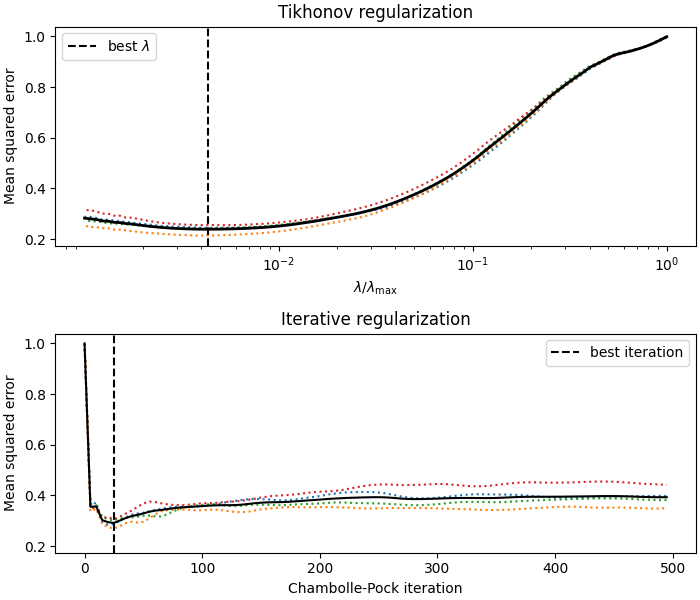
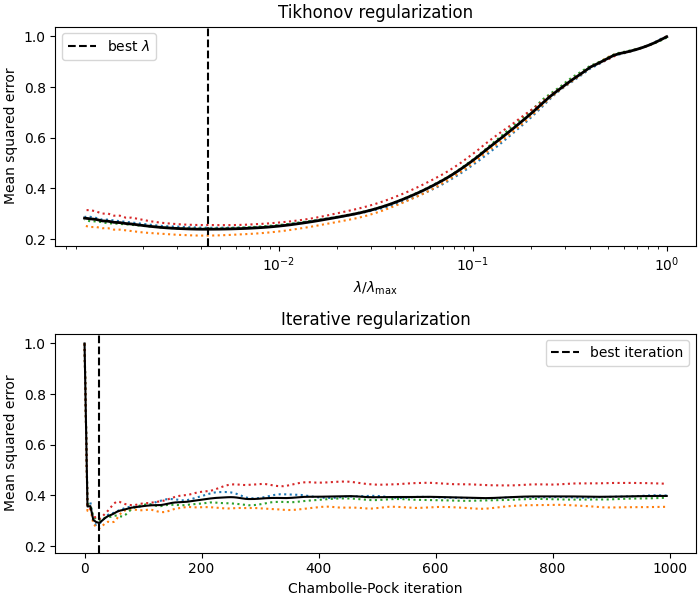
Generate Pelican site [ci skip]

diff --git a/auto_examples/plot_cv_vs_cp_path.html b/auto_examples/plot_cv_vs_cp_path.html
@@ -144,13 +144,15 @@ package) and iterative regularization (ours).</p>
 
 <span class="n">clf</span><span class="o">.</span><span class="n">fit</span><span class="p">(</span><a href="https://docs.scipy.org/doc/scipy/reference/generated/scipy.sparse.csc_matrix.html#scipy.sparse.csc_matrix" title="scipy.sparse.csc_matrix" class="sphx-glr-backref-module-scipy-sparse sphx-glr-backref-type-py-class sphx-glr-backref-instance"><span class="n">X</span></a><span class="p">,</span> <a href="https://numpy.org/doc/stable/reference/generated/numpy.ndarray.html#numpy.ndarray" title="numpy.ndarray" class="sphx-glr-backref-module-numpy sphx-glr-backref-type-py-class sphx-glr-backref-instance"><span class="n">y</span></a><span class="p">)</span>
 
-<a href="https://docs.python.org/3/library/functions.html#int" title="builtins.int" class="sphx-glr-backref-module-builtins sphx-glr-backref-type-py-class sphx-glr-backref-instance"><span class="n">max_iter</span></a> <span class="o">=</span> <span class="mi">500</span>
+<a href="https://docs.python.org/3/library/functions.html#int" title="builtins.int" class="sphx-glr-backref-module-builtins sphx-glr-backref-type-py-class sphx-glr-backref-instance"><span class="n">max_iter</span></a> <span class="o">=</span> <span class="mi">1_000</span>
 <a href="https://docs.python.org/3/library/functions.html#int" title="builtins.int" class="sphx-glr-backref-module-builtins sphx-glr-backref-type-py-class sphx-glr-backref-instance"><span class="n">f_store</span></a> <span class="o">=</span> <span class="mi">5</span>
+<a href="https://docs.python.org/3/library/functions.html#int" title="builtins.int" class="sphx-glr-backref-module-builtins sphx-glr-backref-type-py-class sphx-glr-backref-instance"><span class="n">step</span></a> <span class="o">=</span> <span class="mi">1</span>
 <a href="https://docs.python.org/3/library/functions.html#int" title="builtins.int" class="sphx-glr-backref-module-builtins sphx-glr-backref-type-py-class sphx-glr-backref-instance"><span class="n">n_points</span></a> <span class="o">=</span> <a href="https://docs.python.org/3/library/functions.html#int" title="builtins.int" class="sphx-glr-backref-module-builtins sphx-glr-backref-type-py-class sphx-glr-backref-instance"><span class="n">max_iter</span></a> <span class="o">//</span> <a href="https://docs.python.org/3/library/functions.html#int" title="builtins.int" class="sphx-glr-backref-module-builtins sphx-glr-backref-type-py-class sphx-glr-backref-instance"><span class="n">f_store</span></a>
 <a href="https://numpy.org/doc/stable/reference/generated/numpy.ndarray.html#numpy.ndarray" title="numpy.ndarray" class="sphx-glr-backref-module-numpy sphx-glr-backref-type-py-class sphx-glr-backref-instance"><span class="n">mse_dp</span></a> <span class="o">=</span> <a href="https://numpy.org/doc/stable/reference/generated/numpy.zeros.html#numpy.zeros" title="numpy.zeros" class="sphx-glr-backref-module-numpy sphx-glr-backref-type-py-function"><span class="n">np</span><span class="o">.</span><span class="n">zeros</span></a><span class="p">((</span><a href="https://docs.python.org/3/library/functions.html#int" title="builtins.int" class="sphx-glr-backref-module-builtins sphx-glr-backref-type-py-class sphx-glr-backref-instance"><span class="n">n_points</span></a><span class="p">,</span> <a href="https://docs.python.org/3/library/functions.html#int" title="builtins.int" class="sphx-glr-backref-module-builtins sphx-glr-backref-type-py-class sphx-glr-backref-instance"><span class="n">n_splits</span></a><span class="p">))</span>
 
 <a href="https://docs.python.org/3/library/stdtypes.html#list" title="builtins.list" class="sphx-glr-backref-module-builtins sphx-glr-backref-type-py-class sphx-glr-backref-instance"><span class="n">res</span></a> <span class="o">=</span> <span class="n">Parallel</span><span class="p">(</span><span class="n">n_jobs</span><span class="o">=-</span><span class="mi">1</span><span class="p">)(</span><span class="n">delayed</span><span class="p">(</span><span class="n">dual_primal</span><span class="p">)(</span>
-    <a href="https://docs.scipy.org/doc/scipy/reference/generated/scipy.sparse.csc_matrix.html#scipy.sparse.csc_matrix" title="scipy.sparse.csc_matrix" class="sphx-glr-backref-module-scipy-sparse sphx-glr-backref-type-py-class sphx-glr-backref-instance"><span class="n">X</span></a><span class="p">[</span><a href="https://numpy.org/doc/stable/reference/generated/numpy.ndarray.html#numpy.ndarray" title="numpy.ndarray" class="sphx-glr-backref-module-numpy sphx-glr-backref-type-py-class sphx-glr-backref-instance"><span class="n">train_idx</span></a><span class="p">],</span> <a href="https://numpy.org/doc/stable/reference/generated/numpy.ndarray.html#numpy.ndarray" title="numpy.ndarray" class="sphx-glr-backref-module-numpy sphx-glr-backref-type-py-class sphx-glr-backref-instance"><span class="n">y</span></a><span class="p">[</span><a href="https://numpy.org/doc/stable/reference/generated/numpy.ndarray.html#numpy.ndarray" title="numpy.ndarray" class="sphx-glr-backref-module-numpy sphx-glr-backref-type-py-class sphx-glr-backref-instance"><span class="n">train_idx</span></a><span class="p">],</span> <a href="https://docs.python.org/3/library/functions.html#int" title="builtins.int" class="sphx-glr-backref-module-builtins sphx-glr-backref-type-py-class sphx-glr-backref-instance"><span class="n">max_iter</span></a><span class="p">,</span> <a href="https://docs.python.org/3/library/functions.html#int" title="builtins.int" class="sphx-glr-backref-module-builtins sphx-glr-backref-type-py-class sphx-glr-backref-instance"><span class="n">f_store</span></a><span class="p">,</span> <span class="n">verbose</span><span class="o">=</span><span class="kc">False</span><span class="p">)</span>
+    <a href="https://docs.scipy.org/doc/scipy/reference/generated/scipy.sparse.csc_matrix.html#scipy.sparse.csc_matrix" title="scipy.sparse.csc_matrix" class="sphx-glr-backref-module-scipy-sparse sphx-glr-backref-type-py-class sphx-glr-backref-instance"><span class="n">X</span></a><span class="p">[</span><a href="https://numpy.org/doc/stable/reference/generated/numpy.ndarray.html#numpy.ndarray" title="numpy.ndarray" class="sphx-glr-backref-module-numpy sphx-glr-backref-type-py-class sphx-glr-backref-instance"><span class="n">train_idx</span></a><span class="p">],</span> <a href="https://numpy.org/doc/stable/reference/generated/numpy.ndarray.html#numpy.ndarray" title="numpy.ndarray" class="sphx-glr-backref-module-numpy sphx-glr-backref-type-py-class sphx-glr-backref-instance"><span class="n">y</span></a><span class="p">[</span><a href="https://numpy.org/doc/stable/reference/generated/numpy.ndarray.html#numpy.ndarray" title="numpy.ndarray" class="sphx-glr-backref-module-numpy sphx-glr-backref-type-py-class sphx-glr-backref-instance"><span class="n">train_idx</span></a><span class="p">],</span> <a href="https://docs.python.org/3/library/functions.html#int" title="builtins.int" class="sphx-glr-backref-module-builtins sphx-glr-backref-type-py-class sphx-glr-backref-instance"><span class="n">step</span></a><span class="o">=</span><a href="https://docs.python.org/3/library/functions.html#int" title="builtins.int" class="sphx-glr-backref-module-builtins sphx-glr-backref-type-py-class sphx-glr-backref-instance"><span class="n">step</span></a><span class="p">,</span> <a href="https://docs.python.org/3/library/functions.html#int" title="builtins.int" class="sphx-glr-backref-module-builtins sphx-glr-backref-type-py-class sphx-glr-backref-instance"><span class="n">max_iter</span></a><span class="o">=</span><a href="https://docs.python.org/3/library/functions.html#int" title="builtins.int" class="sphx-glr-backref-module-builtins sphx-glr-backref-type-py-class sphx-glr-backref-instance"><span class="n">max_iter</span></a><span class="p">,</span> <a href="https://docs.python.org/3/library/functions.html#int" title="builtins.int" class="sphx-glr-backref-module-builtins sphx-glr-backref-type-py-class sphx-glr-backref-instance"><span class="n">f_store</span></a><span class="o">=</span><a href="https://docs.python.org/3/library/functions.html#int" title="builtins.int" class="sphx-glr-backref-module-builtins sphx-glr-backref-type-py-class sphx-glr-backref-instance"><span class="n">f_store</span></a><span class="p">,</span>
+    <span class="n">verbose</span><span class="o">=</span><span class="kc">False</span><span class="p">)</span>
     <span class="k">for</span> <a href="https://numpy.org/doc/stable/reference/generated/numpy.ndarray.html#numpy.ndarray" title="numpy.ndarray" class="sphx-glr-backref-module-numpy sphx-glr-backref-type-py-class sphx-glr-backref-instance"><span class="n">train_idx</span></a><span class="p">,</span> <span class="n">_</span> <span class="ow">in</span> <a href="https://scikit-learn.org/stable/modules/generated/sklearn.model_selection.KFold.html#sklearn.model_selection.KFold.split" title="sklearn.model_selection.KFold.split" class="sphx-glr-backref-module-sklearn-model_selection sphx-glr-backref-type-py-method"><span class="n">kf</span><span class="o">.</span><span class="n">split</span></a><span class="p">(</span><a href="https://docs.scipy.org/doc/scipy/reference/generated/scipy.sparse.csc_matrix.html#scipy.sparse.csc_matrix" title="scipy.sparse.csc_matrix" class="sphx-glr-backref-module-scipy-sparse sphx-glr-backref-type-py-class sphx-glr-backref-instance"><span class="n">X</span></a><span class="p">))</span>
 <a href="https://numpy.org/doc/stable/reference/generated/numpy.ndarray.html#numpy.ndarray" title="numpy.ndarray" class="sphx-glr-backref-module-numpy sphx-glr-backref-type-py-class sphx-glr-backref-instance"><span class="n">all_w</span></a> <span class="o">=</span> <a href="https://numpy.org/doc/stable/reference/generated/numpy.array.html#numpy.array" title="numpy.array" class="sphx-glr-backref-module-numpy sphx-glr-backref-type-py-function"><span class="n">np</span><span class="o">.</span><span class="n">array</span></a><span class="p">([</span><span class="n">result</span><span class="p">[</span><span class="o">-</span><span class="mi">1</span><span class="p">]</span> <span class="k">for</span> <span class="n">result</span> <span class="ow">in</span> <a href="https://docs.python.org/3/library/stdtypes.html#list" title="builtins.list" class="sphx-glr-backref-module-builtins sphx-glr-backref-type-py-class sphx-glr-backref-instance"><span class="n">res</span></a><span class="p">])</span>
 
@@ -197,21 +199,21 @@ Downloading data from https://www.csie.ntu.edu.tw/~cjlin/libsvmtools/datasets/bi
 
 
 file_sizes:   0%|                                   | 0.00/13.7M [00:00&lt;?, ?B/s]
-file_sizes:   0%|                           | 24.6k/13.7M [00:00&lt;02:09, 106kB/s]
+file_sizes:   0%|                           | 24.6k/13.7M [00:00&lt;02:08, 107kB/s]
 file_sizes:   0%|                           | 49.2k/13.7M [00:00&lt;02:08, 106kB/s]
-file_sizes:   1%|2                           | 106k/13.7M [00:00&lt;01:20, 170kB/s]
-file_sizes:   2%|4                           | 221k/13.7M [00:00&lt;00:45, 298kB/s]
-file_sizes:   3%|9                           | 451k/13.7M [00:01&lt;00:24, 547kB/s]
-file_sizes:   7%|#7                         | 909k/13.7M [00:01&lt;00:12, 1.03MB/s]
-file_sizes:  13%|###4                      | 1.83M/13.7M [00:01&lt;00:06, 1.98MB/s]
-file_sizes:  27%|######9                   | 3.66M/13.7M [00:01&lt;00:02, 3.82MB/s]
-file_sizes:  38%|#########9                | 5.23M/13.7M [00:02&lt;00:01, 4.73MB/s]
-file_sizes:  50%|############8             | 6.81M/13.7M [00:02&lt;00:01, 5.36MB/s]
-file_sizes:  61%|###############8          | 8.38M/13.7M [00:02&lt;00:00, 5.79MB/s]
-file_sizes:  72%|##################8       | 9.95M/13.7M [00:02&lt;00:00, 6.09MB/s]
-file_sizes:  84%|#####################8    | 11.5M/13.7M [00:03&lt;00:00, 6.30MB/s]
-file_sizes:  95%|########################8 | 13.1M/13.7M [00:03&lt;00:00, 6.44MB/s]
-file_sizes: 100%|##########################| 13.7M/13.7M [00:03&lt;00:00, 4.20MB/s]
+file_sizes:   1%|2                           | 106k/13.7M [00:00&lt;01:19, 171kB/s]
+file_sizes:   2%|4                           | 221k/13.7M [00:00&lt;00:45, 299kB/s]
+file_sizes:   3%|9                           | 451k/13.7M [00:01&lt;00:24, 549kB/s]
+file_sizes:   7%|#7                         | 909k/13.7M [00:01&lt;00:12, 1.04MB/s]
+file_sizes:  13%|###4                      | 1.83M/13.7M [00:01&lt;00:05, 1.99MB/s]
+file_sizes:  27%|######9                   | 3.66M/13.7M [00:01&lt;00:02, 3.87MB/s]
+file_sizes:  38%|#########9                | 5.23M/13.7M [00:02&lt;00:01, 4.78MB/s]
+file_sizes:  50%|############8             | 6.81M/13.7M [00:02&lt;00:01, 5.41MB/s]
+file_sizes:  61%|###############8          | 8.38M/13.7M [00:02&lt;00:00, 5.81MB/s]
+file_sizes:  72%|##################8       | 9.95M/13.7M [00:02&lt;00:00, 6.11MB/s]
+file_sizes:  84%|#####################8    | 11.5M/13.7M [00:03&lt;00:00, 6.32MB/s]
+file_sizes:  95%|########################8 | 13.1M/13.7M [00:03&lt;00:00, 6.46MB/s]
+file_sizes: 100%|##########################| 13.7M/13.7M [00:03&lt;00:00, 4.23MB/s]
 Successfully downloaded file to /home/circleci/celer_data/libsvm/binary/rcv1_train.binary.bz2
 Decompressing...
 Loading svmlight file...
@@ -244,15 +246,14 @@ Loading svmlight file...
 </pre></div>
 </div>
 <p class="sphx-glr-script-out">Out:</p>
-<div class="sphx-glr-script-out highlight-none notranslate"><div class="highlight"><pre><span></span>Convergence warning: mse was still decreasing when max_iter was reached
-Duration for CP: 0.045s
+<div class="sphx-glr-script-out highlight-none notranslate"><div class="highlight"><pre><span></span>Duration for CP: 0.118s
 CP early stop needs 25 iter
 LassoCV optimal lambda: 4.33e-03 lambda_max
-CP time: 0.045 s
-CV time: 7.892 s
+CP time: 0.118 s
+CV time: 7.859 s
 </pre></div>
 </div>
-<p class="sphx-glr-timing"><strong>Total running time of the script:</strong> ( 0 minutes  41.014 seconds)</p>
+<p class="sphx-glr-timing"><strong>Total running time of the script:</strong> ( 0 minutes  42.463 seconds)</p>
 <div class="sphx-glr-footer class sphx-glr-footer-example docutils container" id="sphx-glr-download-auto-examples-plot-cv-vs-cp-path-py">
 <div class="sphx-glr-download sphx-glr-download-python docutils container">
 <p><a class="reference download internal" download="" href="../_downloads/3f72d295e8814de434ebe7b26eaebece/plot_cv_vs_cp_path.py"><code class="xref download docutils literal notranslate"><span class="pre">Download</span> <span class="pre">Python</span> <span class="pre">source</span> <span class="pre">code:</span> <span class="pre">plot_cv_vs_cp_path.py</span></code></a></p>
@@ -277,7 +278,7 @@ CV time: 7.892 s
     </p>
     <p>
         &copy; Copyright 2020, Mathurin Massias.<br/>
-      Created using <a href="http://sphinx-doc.org/">Sphinx</a> 3.5.1.<br/>
+      Created using <a href="http://sphinx-doc.org/">Sphinx</a> 3.5.2.<br/>
     </p>
   </div>
 </footer>

diff --git a/searchindex.js b/searchindex.js
@@ -1,1 +1,1 @@
-Search.setIndex({docnames:["api","auto_examples/index","auto_examples/plot_cv_vs_cp_path","auto_examples/plot_existence_stopping","auto_examples/plot_rate_bregman","auto_examples/plot_stopping_lowrank","auto_examples/sg_execution_times","generated/iterreg.ell1.estimators.BasisPursuitIterReg","index"],envversion:{"sphinx.domains.c":2,"sphinx.domains.changeset":1,"sphinx.domains.citation":1,"sphinx.domains.cpp":3,"sphinx.domains.index":1,"sphinx.domains.javascript":2,"sphinx.domains.math":2,"sphinx.domains.python":2,"sphinx.domains.rst":2,"sphinx.domains.std":2,"sphinx.ext.intersphinx":1,sphinx:56},filenames:["api.rst","auto_examples/index.rst","auto_examples/plot_cv_vs_cp_path.rst","auto_examples/plot_existence_stopping.rst","auto_examples/plot_rate_bregman.rst","auto_examples/plot_stopping_lowrank.rst","auto_examples/sg_execution_times.rst","generated/iterreg.ell1.estimators.BasisPursuitIterReg.rst","index.rst"],objects:{"iterreg.ell1.estimators":{BasisPursuitIterReg:[7,0,1,""]},"iterreg.ell1.estimators.BasisPursuitIterReg":{__init__:[7,1,1,""]}},objnames:{"0":["py","class","Python class"],"1":["py","method","Python method"]},objtypes:{"0":"py:class","1":"py:method"},terms:{"014":[2,6],"03mb":2,"045":2,"079":[4,6],"083":[3,6],"09859":8,"09mb":2,"100":[2,4,5],"1000":[5,7],"106k":2,"106kb":2,"111111111111111":5,"170kb":2,"1e0":2,"200":3,"20000":5,"200000":4,"2006":8,"2021":8,"20mb":2,"221k":2,"222222222222222":5,"23m":2,"298kb":2,"3000000000000003":3,"30mb":2,"333333333333334":5,"33e":2,"36mb":2,"38m":2,"3fs":2,"400":3,"436":[5,6],"444444444444445":5,"44mb":2,"451k":2,"500":[2,3,5],"5000":2,"547kb":2,"5555555555555554":5,"5_000":3,"613":6,"63e":4,"666666666666667":5,"66m":2,"7000000000000002":3,"73mb":2,"777777777777779":5,"79mb":2,"81m":2,"82mb":2,"83m":2,"88888888888889":5,"892":2,"89e":4,"909k":2,"95m":2,"98mb":2,"class":7,"default":2,"function":0,"import":[2,3,4,5,8],"return":3,"true":[2,3,4,5],Res:4,__init__:7,abl:8,abs:[2,4,8],accur:7,aistat:8,algo:4,all:[1,4],all_w:[2,3],all_w_pd:4,all_w_rep:3,all_wdict:3,alpha:[2,3,4],alpha_:2,alpha_max:2,alphas_:2,alphas_stop:2,anaconda:8,ani:[4,8],arang:[2,3,4,5],argmin:[2,3],arrai:[2,3],arxiv:8,assert:4,author:8,auto_exampl:6,auto_examples_jupyt:1,auto_examples_python:1,avail:8,axarr:2,axi:[2,3,4],axvlin:2,basispursuititerreg:2,best:2,best_alpha:2,best_it:2,bia:8,binari:2,block:[2,3,4,5],booktitl:8,bool:5,bregman:[1,6],bz2:2,can:8,celer:[2,3,4,5],celer_data:2,cesar:8,chambol:[1,6],check:8,choic:5,circleci:2,cjlin:2,clf:[2,3,4],click:[2,3,4,5],clone:8,close:4,code:[1,2,3,4,5,8],coef_:[3,4],color:2,com:8,comparison:2,complet:[1,6],configure_plt:[3,4,5],constrained_layout:[2,3,4,5],control:4,converg:[2,4],convex:8,copi:[3,5],csie:2,data:2,dataset:2,decompress:2,decreas:2,def:3,del:3,delai:[2,3],delta:[3,5],delta_k:3,dict:[3,5],dist:5,distanc:5,distribut:8,diverg:4,document:8,don:8,download:[1,2,3,4,5],dtype:5,dual:4,dual_prim:[2,3],dual_primal_low_rank:5,durat:2,earli:2,edu:2,ell1:[2,3,4],enough:4,enumer:[2,3],environ:8,error:[2,8],estim:[0,2],everyth:8,exampl:[2,3,4,5],execut:6,exist:[1,6],f_store:[2,3,4,5],f_test:7,fals:[2,3,4,5,7],fast:2,faster:2,feasabl:4,fetch_libsvm:2,fig1:5,fig3:3,fig:[2,4],figsiz:[2,3,4,5],file:[2,6],file_s:2,fine:8,first:8,fit:[2,3,4],fit_intercept:[2,3,4],flat:5,fontsiz:[3,5],format:[3,5],fro:5,from:[2,3,4,5,8],full:[2,3,4,5],galleri:[2,3,4,5],gener:[1,2,3,4,5],geomspac:2,git:8,github:8,give:8,grid:2,guarante:[1,6],help:7,here:[2,3,4,5],home:2,http:[2,8],idx:5,initi:7,inproceed:8,ipynb:[2,3,4,5],iter:[2,3,4,5,8],iterreg:[2,3,4,5],joblib:[2,3],jupyt:[1,2,3,4,5],just:8,kenw:2,kfold:2,label:[2,3,4,5],lambda:2,lambda_:2,lambda_max:2,lasso:[1,6],lassocv:2,lassolar:[3,4],lcsl:8,legend:[2,3,4,5],len:[2,3,5],librari:8,libsvm:2,libsvmdata:2,libsvmtool:2,limit:5,linalg:[3,4,5],linear_model:[3,4],linestyl:2,linewidth:2,link:8,linspac:[3,5],load:2,loc:[3,4,5],lorenzo:8,low:[1,6],low_rank:5,make:2,make_sparse_data:[3,4],mask:5,massia:8,mathbf:4,mathrm:2,mathurin:8,matplotlib:[2,3,4,5],matrix:[1,6],max:2,max_it:[2,3,4,5,7],mean:2,memori:[2,7],messag:8,method:7,minut:[2,3,4,5],mode:[3,4,5],model_select:2,molinari:8,mse:2,mse_dp:2,mse_path_:2,n_delta:[3,5],n_job:[2,3],n_point:[2,3,4,5],n_rep:3,n_split:2,ncol:[3,5],need:2,nois:[3,5],none:[2,3,4],norm:[3,4,5],normal:3,notebook:[1,2,3,4,5],now:2,ntu:2,nulliti:[1,6],num:[3,5],numpi:[2,3,4,5],ones:3,optim:2,ord:[4,5],org:8,our:2,out:[2,3,4,5],packag:[2,8],parallel:[2,3],path:[1,6],perf_count:2,pip:8,pleas:8,plot:[1,6],plot_bregman:4,plot_cv_vs_cp_path:[2,6],plot_existence_stop:[3,6],plot_rate_bregman:[4,6],plot_stopping_lowrank:[5,6],plot_util:[3,4,5],plt:[2,3,4,5],pock:[1,6],posteriori:2,primal:4,primal_du:4,print:[2,3,4,5],pyplot:[2,3,4,5],python:[1,2,3,4,5,8],randn:[3,5],random:[3,5],random_st:2,rang:3,rank:[1,6],rcv1_train:2,reach:2,recommend:8,regress:3,regular:[2,8],rep:3,replac:5,repositori:8,requir:[3,4,5],res:[2,3],result:2,rho:[3,4],right:[3,4,5],rosasco:8,run:[2,3,4,5,8],scal:3,script:[2,3,4,5],second:[2,3,4,5],see:7,seed:[3,5],self:7,semilog:[3,4,5],semilogx:2,set_titl:2,set_xlabel:[2,3],set_xtick:2,set_ylabel:[2,3],set_ytick:4,shape:3,sharei:2,shell:8,should:8,show:[1,2,4,5,6],shuffl:2,sign:4,signatur:7,silvia:8,sklearn:[2,3,4],smaller:2,snr:[3,4],solver:5,sourc:[1,2,3,4,5],sphinx:[1,2,3,4,5],split:2,squar:2,star:[3,4,5],still:[2,8],stop:[1,2,6],subgrad2:4,subgrad:4,subplot:[2,3,4,5],successfulli:2,sum:4,svmlight:2,test_idx:2,tex:[3,4,5],theta:[4,5],theta_pd:4,thi:[3,4,8],tikhonov:[1,6],time:[1,2,4],time_cp:2,time_cv:2,titl:8,top:4,total:[2,3,4,5,6],train_idx:2,train_ratio:7,type:7,upper:[3,4,5],use:8,usetex:[3,4,5],using:8,util:[3,4],verbos:[2,3,4,5,7],villa:8,w_bp:[3,4],w_k:[4,5],w_pd:4,w_star:5,w_type:3,want:8,warn:2,when:2,work:8,wrapper:3,www:2,x_plt:[3,5],x_true:4,xlabel:[4,5],y_delta:5,y_nois:3,y_plt:[3,5],y_true:5,year:8,ylabel:5,you:8,zero:[2,3,5],zip:1},titles:["API Documentation","Examples Gallery","Plot Chambolle Pock path vs Lasso Tikhonov path","Show existence of stopping time","Plot nullity of Bregman guarantees","Plot stopping time for low rank matrix completion","Computation times","iterreg.ell1.estimators.BasisPursuitIterReg","Iterreg"],titleterms:{api:[0,8],basispursuititerreg:7,bregman:4,chambol:2,cite:8,complet:5,comput:6,document:0,ell1:7,estim:7,exampl:1,exist:3,galleri:1,guarante:4,instal:8,iterreg:[0,7,8],lasso:2,low:5,matrix:5,nulliti:4,path:2,plot:[2,4,5],pock:2,rank:5,show:3,stop:[3,5],tikhonov:2,time:[3,5,6]}})
+Search.setIndex({docnames:["api","auto_examples/index","auto_examples/plot_cv_vs_cp_path","auto_examples/plot_existence_stopping","auto_examples/plot_rate_bregman","auto_examples/plot_stopping_lowrank","auto_examples/sg_execution_times","generated/iterreg.ell1.estimators.BasisPursuitIterReg","index"],envversion:{"sphinx.domains.c":2,"sphinx.domains.changeset":1,"sphinx.domains.citation":1,"sphinx.domains.cpp":3,"sphinx.domains.index":1,"sphinx.domains.javascript":2,"sphinx.domains.math":2,"sphinx.domains.python":2,"sphinx.domains.rst":2,"sphinx.domains.std":2,"sphinx.ext.intersphinx":1,sphinx:56},filenames:["api.rst","auto_examples/index.rst","auto_examples/plot_cv_vs_cp_path.rst","auto_examples/plot_existence_stopping.rst","auto_examples/plot_rate_bregman.rst","auto_examples/plot_stopping_lowrank.rst","auto_examples/sg_execution_times.rst","generated/iterreg.ell1.estimators.BasisPursuitIterReg.rst","index.rst"],objects:{"iterreg.ell1.estimators":{BasisPursuitIterReg:[7,0,1,""]},"iterreg.ell1.estimators.BasisPursuitIterReg":{__init__:[7,1,1,""]}},objnames:{"0":["py","class","Python class"],"1":["py","method","Python method"]},objtypes:{"0":"py:class","1":"py:method"},terms:{"006":[4,6],"04mb":2,"09859":8,"100":[2,4,5],"1000":[5,7],"106k":2,"106kb":2,"107kb":2,"111111111111111":5,"118":2,"11mb":2,"171kb":2,"1_000":2,"1e0":2,"200":3,"20000":5,"200000":4,"2006":8,"2021":8,"221k":2,"222222222222222":5,"233":[5,6],"23m":2,"23mb":2,"270":6,"299kb":2,"3000000000000003":3,"32mb":2,"333333333333334":5,"33e":2,"38m":2,"3fs":2,"400":3,"41mb":2,"444444444444445":5,"451k":2,"463":[2,6],"46mb":2,"500":[3,5],"5000":2,"549kb":2,"5555555555555554":5,"567":[3,6],"5_000":3,"63e":4,"666666666666667":5,"66m":2,"7000000000000002":3,"777777777777779":5,"78mb":2,"81m":2,"81mb":2,"83m":2,"859":2,"86e":4,"87mb":2,"88888888888889":5,"909k":2,"95m":2,"99mb":2,"class":7,"default":2,"function":0,"import":[2,3,4,5,8],"return":3,"true":[2,3,4,5],Res:4,__init__:7,abl:8,abs:[2,4,8],accur:7,aistat:8,algo:4,all:[1,4],all_w:[2,3],all_w_pd:4,all_w_rep:3,all_wdict:3,alpha:[2,3,4],alpha_:2,alpha_max:2,alphas_:2,alphas_stop:2,anaconda:8,ani:[4,8],arang:[2,3,4,5],argmin:[2,3],arrai:[2,3],arxiv:8,assert:4,author:8,auto_exampl:6,auto_examples_jupyt:1,auto_examples_python:1,avail:8,axarr:2,axi:[2,3,4],axvlin:2,basispursuititerreg:2,best:2,best_alpha:2,best_it:2,bia:8,binari:2,block:[2,3,4,5],booktitl:8,bool:5,bregman:[1,6],bz2:2,can:8,celer:[2,3,4,5],celer_data:2,cesar:8,chambol:[1,6],check:8,choic:5,circleci:2,cjlin:2,clf:[2,3,4],click:[2,3,4,5],clone:8,close:4,code:[1,2,3,4,5,8],coef_:[3,4],color:2,com:8,comparison:2,complet:[1,6],configure_plt:[3,4,5],constrained_layout:[2,3,4,5],control:4,converg:4,convex:8,copi:[3,5],csie:2,data:2,dataset:2,decompress:2,def:3,del:3,delai:[2,3],delta:[3,5],delta_k:3,dict:[3,5],dist:5,distanc:5,distribut:8,diverg:4,document:8,don:8,download:[1,2,3,4,5],dtype:5,dual:4,dual_prim:[2,3],dual_primal_low_rank:5,durat:2,earli:2,edu:2,ell1:[2,3,4],enough:4,enumer:[2,3],environ:8,error:[2,8],estim:[0,2],everyth:8,exampl:[2,3,4,5],execut:6,exist:[1,6],f_store:[2,3,4,5],f_test:7,fals:[2,3,4,5,7],fast:2,faster:2,feasabl:4,fetch_libsvm:2,fig1:5,fig3:3,fig:[2,4],figsiz:[2,3,4,5],file:[2,6],file_s:2,fine:8,first:8,fit:[2,3,4],fit_intercept:[2,3,4],flat:5,fontsiz:[3,5],format:[3,5],fro:5,from:[2,3,4,5,8],full:[2,3,4,5],galleri:[2,3,4,5],gener:[1,2,3,4,5],geomspac:2,git:8,github:8,give:8,grid:2,guarante:[1,6],help:7,here:[2,3,4,5],home:2,http:[2,8],idx:5,initi:7,inproceed:8,ipynb:[2,3,4,5],iter:[2,3,4,5,8],iterreg:[2,3,4,5],joblib:[2,3],jupyt:[1,2,3,4,5],just:8,kenw:2,kfold:2,label:[2,3,4,5],lambda:2,lambda_:2,lambda_max:2,lasso:[1,6],lassocv:2,lassolar:[3,4],lcsl:8,legend:[2,3,4,5],len:[2,3,5],librari:8,libsvm:2,libsvmdata:2,libsvmtool:2,limit:5,linalg:[3,4,5],linear_model:[3,4],linestyl:2,linewidth:2,link:8,linspac:[3,5],load:2,loc:[3,4,5],lorenzo:8,low:[1,6],low_rank:5,make:2,make_sparse_data:[3,4],mask:5,massia:8,mathbf:4,mathrm:2,mathurin:8,matplotlib:[2,3,4,5],matrix:[1,6],max:2,max_it:[2,3,4,5,7],mean:2,memori:[2,7],messag:8,method:7,minut:[2,3,4,5],mode:[3,4,5],model_select:2,molinari:8,mse_dp:2,mse_path_:2,n_delta:[3,5],n_job:[2,3],n_point:[2,3,4,5],n_rep:3,n_split:2,ncol:[3,5],need:2,nois:[3,5],none:[2,3,4],norm:[3,4,5],normal:3,notebook:[1,2,3,4,5],now:2,ntu:2,nulliti:[1,6],num:[3,5],numpi:[2,3,4,5],ones:3,optim:2,ord:[4,5],org:8,our:2,out:[2,3,4,5],packag:[2,8],parallel:[2,3],path:[1,6],perf_count:2,pip:8,pleas:8,plot:[1,6],plot_bregman:4,plot_cv_vs_cp_path:[2,6],plot_existence_stop:[3,6],plot_rate_bregman:[4,6],plot_stopping_lowrank:[5,6],plot_util:[3,4,5],plt:[2,3,4,5],pock:[1,6],posteriori:2,primal:4,primal_du:4,print:[2,3,4,5],pyplot:[2,3,4,5],python:[1,2,3,4,5,8],randn:[3,5],random:[3,5],random_st:2,rang:3,rank:[1,6],rcv1_train:2,recommend:8,regress:3,regular:[2,8],rep:3,replac:5,repositori:8,requir:[3,4,5],res:[2,3],result:2,rho:[3,4],right:[3,4,5],rosasco:8,run:[2,3,4,5,8],scal:3,script:[2,3,4,5],second:[2,3,4,5],see:7,seed:[3,5],self:7,semilog:[3,4,5],semilogx:2,set_titl:2,set_xlabel:[2,3],set_xtick:2,set_ylabel:[2,3],set_ytick:4,shape:3,sharei:2,shell:8,should:8,show:[1,2,4,5,6],shuffl:2,sign:4,signatur:7,silvia:8,sklearn:[2,3,4],smaller:2,snr:[3,4],solver:5,sourc:[1,2,3,4,5],sphinx:[1,2,3,4,5],split:2,squar:2,star:[3,4,5],step:[2,3,7],still:8,stop:[1,2,6],subgrad2:4,subgrad:4,subplot:[2,3,4,5],successfulli:2,sum:4,svmlight:2,test_idx:2,tex:[3,4,5],theta:[4,5],theta_pd:4,thi:[3,4,8],tikhonov:[1,6],time:[1,2,4],time_cp:2,time_cv:2,titl:8,top:4,total:[2,3,4,5,6],train_idx:2,train_ratio:7,type:7,upper:[3,4,5],use:8,usetex:[3,4,5],using:8,util:[3,4],verbos:[2,3,4,5,7],villa:8,w_bp:[3,4],w_k:[4,5],w_pd:4,w_star:5,w_type:3,want:8,work:8,wrapper:3,www:2,x_plt:[3,5],x_true:4,xlabel:[4,5],y_delta:5,y_nois:3,y_plt:[3,5],y_true:5,year:8,ylabel:5,you:8,zero:[2,3,5],zip:1},titles:["API Documentation","Examples Gallery","Plot Chambolle Pock path vs Lasso Tikhonov path","Show existence of stopping time","Plot nullity of Bregman guarantees","Plot stopping time for low rank matrix completion","Computation times","iterreg.ell1.estimators.BasisPursuitIterReg","Iterreg"],titleterms:{api:[0,8],basispursuititerreg:7,bregman:4,chambol:2,cite:8,complet:5,comput:6,document:0,ell1:7,estim:7,exampl:1,exist:3,galleri:1,guarante:4,instal:8,iterreg:[0,7,8],lasso:2,low:5,matrix:5,nulliti:4,path:2,plot:[2,4,5],pock:2,rank:5,show:3,stop:[3,5],tikhonov:2,time:[3,5,6]}})

diff --git a/auto_examples/plot_existence_stopping.html b/auto_examples/plot_existence_stopping.html
@@ -166,7 +166,8 @@ to download the full example code</p>
     <span class="n">noise</span> <span class="o">=</span> <a href="https://numpy.org/doc/stable/reference/random/generated/numpy.random.randn.html#numpy.random.randn" title="numpy.random.randn" class="sphx-glr-backref-module-numpy-random sphx-glr-backref-type-py-function"><span class="n">np</span><span class="o">.</span><span class="n">random</span><span class="o">.</span><span class="n">randn</span></a><span class="p">(</span><a href="https://docs.python.org/3/library/stdtypes.html#tuple" title="builtins.tuple" class="sphx-glr-backref-module-builtins sphx-glr-backref-type-py-class sphx-glr-backref-instance"><span class="n">y</span><span class="o">.</span><span class="n">shape</span></a><span class="p">[</span><span class="mi">0</span><span class="p">])</span>
     <span class="n">y_noise</span> <span class="o">=</span> <a href="https://numpy.org/doc/stable/reference/generated/numpy.ndarray.html#numpy.ndarray" title="numpy.ndarray" class="sphx-glr-backref-module-numpy sphx-glr-backref-type-py-class sphx-glr-backref-instance"><span class="n">y</span></a> <span class="o">+</span> <a href="https://numpy.org/doc/stable/reference/arrays.scalars.html#numpy.float64" title="numpy.float64" class="sphx-glr-backref-module-numpy sphx-glr-backref-type-py-attribute"><span class="n">delta</span></a> <span class="o">*</span> <span class="n">noise</span> <span class="o">/</span> <a href="https://numpy.org/doc/stable/reference/generated/numpy.linalg.norm.html#numpy.linalg.norm" title="numpy.linalg.norm" class="sphx-glr-backref-module-numpy-linalg sphx-glr-backref-type-py-function"><span class="n">norm</span></a><span class="p">(</span><span class="n">noise</span><span class="p">)</span>
     <span class="n">all_w</span> <span class="o">=</span> <span class="n">dual_primal</span><span class="p">(</span>
-        <a href="https://numpy.org/doc/stable/reference/generated/numpy.ndarray.html#numpy.ndarray" title="numpy.ndarray" class="sphx-glr-backref-module-numpy sphx-glr-backref-type-py-class sphx-glr-backref-instance"><span class="n">X</span></a><span class="p">,</span> <span class="n">y_noise</span><span class="p">,</span> <a href="https://docs.python.org/3/library/functions.html#int" title="builtins.int" class="sphx-glr-backref-module-builtins sphx-glr-backref-type-py-class sphx-glr-backref-instance"><span class="n">max_iter</span></a><span class="o">=</span><a href="https://docs.python.org/3/library/functions.html#int" title="builtins.int" class="sphx-glr-backref-module-builtins sphx-glr-backref-type-py-class sphx-glr-backref-instance"><span class="n">max_iter</span></a><span class="p">,</span> <span class="n">f_store</span><span class="o">=</span><span class="n">f_store</span><span class="p">,</span> <span class="n">verbose</span><span class="o">=</span><span class="kc">False</span><span class="p">)[</span><span class="o">-</span><span class="mi">1</span><span class="p">]</span>
+        <a href="https://numpy.org/doc/stable/reference/generated/numpy.ndarray.html#numpy.ndarray" title="numpy.ndarray" class="sphx-glr-backref-module-numpy sphx-glr-backref-type-py-class sphx-glr-backref-instance"><span class="n">X</span></a><span class="p">,</span> <span class="n">y_noise</span><span class="p">,</span> <span class="n">step</span><span class="o">=</span><span class="mi">1</span><span class="p">,</span> <a href="https://docs.python.org/3/library/functions.html#int" title="builtins.int" class="sphx-glr-backref-module-builtins sphx-glr-backref-type-py-class sphx-glr-backref-instance"><span class="n">max_iter</span></a><span class="o">=</span><a href="https://docs.python.org/3/library/functions.html#int" title="builtins.int" class="sphx-glr-backref-module-builtins sphx-glr-backref-type-py-class sphx-glr-backref-instance"><span class="n">max_iter</span></a><span class="p">,</span> <span class="n">f_store</span><span class="o">=</span><span class="n">f_store</span><span class="p">,</span>
+        <span class="n">verbose</span><span class="o">=</span><span class="kc">False</span><span class="p">)[</span><span class="o">-</span><span class="mi">1</span><span class="p">]</span>
     <span class="k">return</span> <span class="n">all_w</span>
 
 
@@ -206,7 +207,7 @@ to download the full example code</p>
 <a href="https://matplotlib.org/api/_as_gen/matplotlib.pyplot.show.html#matplotlib.pyplot.show" title="matplotlib.pyplot.show" class="sphx-glr-backref-module-matplotlib-pyplot sphx-glr-backref-type-py-function"><span class="n">plt</span><span class="o">.</span><span class="n">show</span></a><span class="p">(</span><span class="n">block</span><span class="o">=</span><span class="kc">False</span><span class="p">)</span>
 </pre></div>
 </div>
-<p class="sphx-glr-timing"><strong>Total running time of the script:</strong> ( 0 minutes  10.083 seconds)</p>
+<p class="sphx-glr-timing"><strong>Total running time of the script:</strong> ( 0 minutes  10.567 seconds)</p>
 <div class="sphx-glr-footer class sphx-glr-footer-example docutils container" id="sphx-glr-download-auto-examples-plot-existence-stopping-py">
 <div class="sphx-glr-download sphx-glr-download-python docutils container">
 <p><a class="reference download internal" download="" href="../_downloads/d0f562fb5f3963cf006e088630cd4987/plot_existence_stopping.py"><code class="xref download docutils literal notranslate"><span class="pre">Download</span> <span class="pre">Python</span> <span class="pre">source</span> <span class="pre">code:</span> <span class="pre">plot_existence_stopping.py</span></code></a></p>
@@ -231,7 +232,7 @@ to download the full example code</p>
     </p>
     <p>
         &copy; Copyright 2020, Mathurin Massias.<br/>
-      Created using <a href="http://sphinx-doc.org/">Sphinx</a> 3.5.1.<br/>
+      Created using <a href="http://sphinx-doc.org/">Sphinx</a> 3.5.2.<br/>
     </p>
   </div>
 </footer>

diff --git a/auto_examples/sg_execution_times.html b/auto_examples/sg_execution_times.html
@@ -111,7 +111,7 @@
       
   <div class="section" id="computation-times">
 <span id="sphx-glr-auto-examples-sg-execution-times"></span><h1>Computation times<a class="headerlink" href="#computation-times" title="Permalink to this headline">¶</a></h1>
-<p><strong>01:00.613</strong> total execution time for <strong>auto_examples</strong> files:</p>
+<p><strong>01:02.270</strong> total execution time for <strong>auto_examples</strong> files:</p>
 <table class="docutils align-default">
 <colgroup>
 <col style="width: 83%" />
@@ -120,19 +120,19 @@
 </colgroup>
 <tbody>
 <tr class="row-odd"><td><p><a class="reference internal" href="plot_cv_vs_cp_path.html#sphx-glr-auto-examples-plot-cv-vs-cp-path-py"><span class="std std-ref">Plot Chambolle Pock path vs Lasso Tikhonov path</span></a> (<code class="docutils literal notranslate"><span class="pre">plot_cv_vs_cp_path.py</span></code>)</p></td>
-<td><p>00:41.014</p></td>
+<td><p>00:42.463</p></td>
 <td><p>0.0 MB</p></td>
 </tr>
 <tr class="row-even"><td><p><a class="reference internal" href="plot_existence_stopping.html#sphx-glr-auto-examples-plot-existence-stopping-py"><span class="std std-ref">Show existence of stopping time</span></a> (<code class="docutils literal notranslate"><span class="pre">plot_existence_stopping.py</span></code>)</p></td>
-<td><p>00:10.083</p></td>
+<td><p>00:10.567</p></td>
 <td><p>0.0 MB</p></td>
 </tr>
 <tr class="row-odd"><td><p><a class="reference internal" href="plot_stopping_lowrank.html#sphx-glr-auto-examples-plot-stopping-lowrank-py"><span class="std std-ref">Plot stopping time for low rank matrix completion</span></a> (<code class="docutils literal notranslate"><span class="pre">plot_stopping_lowrank.py</span></code>)</p></td>
-<td><p>00:06.436</p></td>
+<td><p>00:06.233</p></td>
 <td><p>0.0 MB</p></td>
 </tr>
 <tr class="row-even"><td><p><a class="reference internal" href="plot_rate_bregman.html#sphx-glr-auto-examples-plot-rate-bregman-py"><span class="std std-ref">Plot nullity of Bregman guarantees</span></a> (<code class="docutils literal notranslate"><span class="pre">plot_rate_bregman.py</span></code>)</p></td>
-<td><p>00:03.079</p></td>
+<td><p>00:03.006</p></td>
 <td><p>0.0 MB</p></td>
 </tr>
 </tbody>
@@ -152,7 +152,7 @@
     </p>
     <p>
         &copy; Copyright 2020, Mathurin Massias.<br/>
-      Created using <a href="http://sphinx-doc.org/">Sphinx</a> 3.5.1.<br/>
+      Created using <a href="http://sphinx-doc.org/">Sphinx</a> 3.5.2.<br/>
     </p>
   </div>
 </footer>

diff --git a/auto_examples/plot_rate_bregman.html b/auto_examples/plot_rate_bregman.html
@@ -121,7 +121,7 @@ convergence of the iterates.</p>
 <img alt="plot rate bregman" class="sphx-glr-single-img" src="../_images/sphx_glr_plot_rate_bregman_001.png" />
 <p class="sphx-glr-script-out">Out:</p>
 <div class="sphx-glr-script-out highlight-none notranslate"><div class="highlight"><pre><span></span>usetex mode requires TeX.
-Res norm PD 1.89e-10
+Res norm PD 1.86e-10
 Res norm BP 1.63e-12
 </pre></div>
 </div>
@@ -192,7 +192,7 @@ Res norm BP 1.63e-12
 <a href="https://matplotlib.org/api/_as_gen/matplotlib.pyplot.show.html#matplotlib.pyplot.show" title="matplotlib.pyplot.show" class="sphx-glr-backref-module-matplotlib-pyplot sphx-glr-backref-type-py-function"><span class="n">plt</span><span class="o">.</span><span class="n">show</span></a><span class="p">(</span><span class="n">block</span><span class="o">=</span><span class="kc">False</span><span class="p">)</span>
 </pre></div>
 </div>
-<p class="sphx-glr-timing"><strong>Total running time of the script:</strong> ( 0 minutes  3.079 seconds)</p>
+<p class="sphx-glr-timing"><strong>Total running time of the script:</strong> ( 0 minutes  3.006 seconds)</p>
 <div class="sphx-glr-footer class sphx-glr-footer-example docutils container" id="sphx-glr-download-auto-examples-plot-rate-bregman-py">
 <div class="sphx-glr-download sphx-glr-download-python docutils container">
 <p><a class="reference download internal" download="" href="../_downloads/452a06f92b0b9ccfc967f2d8a3a4e543/plot_rate_bregman.py"><code class="xref download docutils literal notranslate"><span class="pre">Download</span> <span class="pre">Python</span> <span class="pre">source</span> <span class="pre">code:</span> <span class="pre">plot_rate_bregman.py</span></code></a></p>
@@ -217,7 +217,7 @@ Res norm BP 1.63e-12
     </p>
     <p>
         &copy; Copyright 2020, Mathurin Massias.<br/>
-      Created using <a href="http://sphinx-doc.org/">Sphinx</a> 3.5.1.<br/>
+      Created using <a href="http://sphinx-doc.org/">Sphinx</a> 3.5.2.<br/>
     </p>
   </div>
 </footer>

diff --git a/auto_examples/plot_stopping_lowrank.html b/auto_examples/plot_stopping_lowrank.html
@@ -190,7 +190,7 @@ to download the full example code</p>
 <a href="https://matplotlib.org/api/_as_gen/matplotlib.pyplot.show.html#matplotlib.pyplot.show" title="matplotlib.pyplot.show" class="sphx-glr-backref-module-matplotlib-pyplot sphx-glr-backref-type-py-function"><span class="n">plt</span><span class="o">.</span><span class="n">show</span></a><span class="p">(</span><span class="n">block</span><span class="o">=</span><span class="kc">False</span><span class="p">)</span>
 </pre></div>
 </div>
-<p class="sphx-glr-timing"><strong>Total running time of the script:</strong> ( 0 minutes  6.436 seconds)</p>
+<p class="sphx-glr-timing"><strong>Total running time of the script:</strong> ( 0 minutes  6.233 seconds)</p>
 <div class="sphx-glr-footer class sphx-glr-footer-example docutils container" id="sphx-glr-download-auto-examples-plot-stopping-lowrank-py">
 <div class="sphx-glr-download sphx-glr-download-python docutils container">
 <p><a class="reference download internal" download="" href="../_downloads/b1512677ec95f3f4472e2743c69b4fa2/plot_stopping_lowrank.py"><code class="xref download docutils literal notranslate"><span class="pre">Download</span> <span class="pre">Python</span> <span class="pre">source</span> <span class="pre">code:</span> <span class="pre">plot_stopping_lowrank.py</span></code></a></p>
@@ -215,7 +215,7 @@ to download the full example code</p>
     </p>
     <p>
         &copy; Copyright 2020, Mathurin Massias.<br/>
-      Created using <a href="http://sphinx-doc.org/">Sphinx</a> 3.5.1.<br/>
+      Created using <a href="http://sphinx-doc.org/">Sphinx</a> 3.5.2.<br/>
     </p>
   </div>
 </footer>

diff --git a/index.html b/index.html
@@ -180,7 +180,7 @@ $ cd iterreg/
     </p>
     <p>
         &copy; Copyright 2020, Mathurin Massias.<br/>
-      Created using <a href="http://sphinx-doc.org/">Sphinx</a> 3.5.1.<br/>
+      Created using <a href="http://sphinx-doc.org/">Sphinx</a> 3.5.2.<br/>
     </p>
   </div>
 </footer>

diff --git a/api.html b/api.html
@@ -155,7 +155,7 @@
     </p>
     <p>
         &copy; Copyright 2020, Mathurin Massias.<br/>
-      Created using <a href="http://sphinx-doc.org/">Sphinx</a> 3.5.1.<br/>
+      Created using <a href="http://sphinx-doc.org/">Sphinx</a> 3.5.2.<br/>
     </p>
   </div>
 </footer>

diff --git a/auto_examples/index.html b/auto_examples/index.html
@@ -161,7 +161,7 @@
     </p>
     <p>
         &copy; Copyright 2020, Mathurin Massias.<br/>
-      Created using <a href="http://sphinx-doc.org/">Sphinx</a> 3.5.1.<br/>
+      Created using <a href="http://sphinx-doc.org/">Sphinx</a> 3.5.2.<br/>
     </p>
   </div>
 </footer>

diff --git a/genindex.html b/genindex.html
@@ -140,7 +140,7 @@
     </p>
     <p>
         &copy; Copyright 2020, Mathurin Massias.<br/>
-      Created using <a href="http://sphinx-doc.org/">Sphinx</a> 3.5.1.<br/>
+      Created using <a href="http://sphinx-doc.org/">Sphinx</a> 3.5.2.<br/>
     </p>
   </div>
 </footer>

diff --git a/search.html b/search.html
@@ -143,7 +143,7 @@
     </p>
     <p>
         &copy; Copyright 2020, Mathurin Massias.<br/>
-      Created using <a href="http://sphinx-doc.org/">Sphinx</a> 3.5.1.<br/>
+      Created using <a href="http://sphinx-doc.org/">Sphinx</a> 3.5.2.<br/>
     </p>
   </div>
 </footer>

diff --git a/_downloads/3f72d295e8814de434ebe7b26eaebece/plot_cv_vs_cp_path.py b/_downloads/3f72d295e8814de434ebe7b26eaebece/plot_cv_vs_cp_path.py
@@ -32,13 +32,15 @@ clf = LassoCV(fit_intercept=False, n_jobs=4, cv=kf, verbose=0)
 
 clf.fit(X, y)
 
-max_iter = 500
+max_iter = 1_000
 f_store = 5
+step = 1
 n_points = max_iter // f_store
 mse_dp = np.zeros((n_points, n_splits))
 
 res = Parallel(n_jobs=-1)(delayed(dual_primal)(
-    X[train_idx], y[train_idx], max_iter, f_store, verbose=False)
+    X[train_idx], y[train_idx], step=step, max_iter=max_iter, f_store=f_store,
+    verbose=False)
     for train_idx, _ in kf.split(X))
 all_w = np.array([result[-1] for result in res])
 
